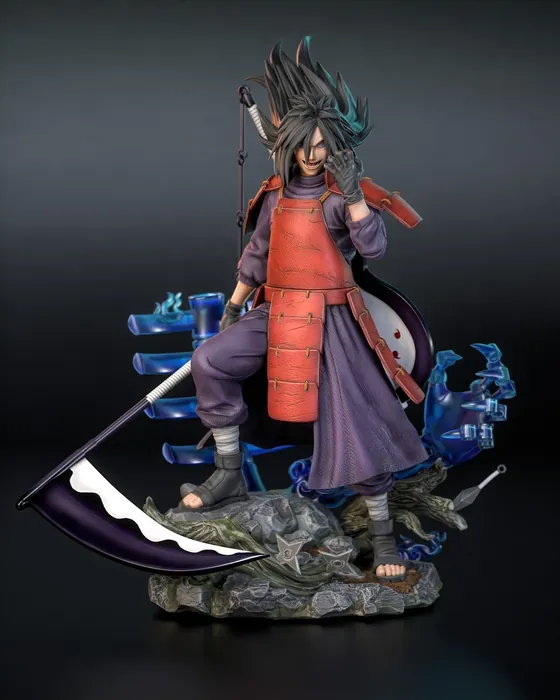
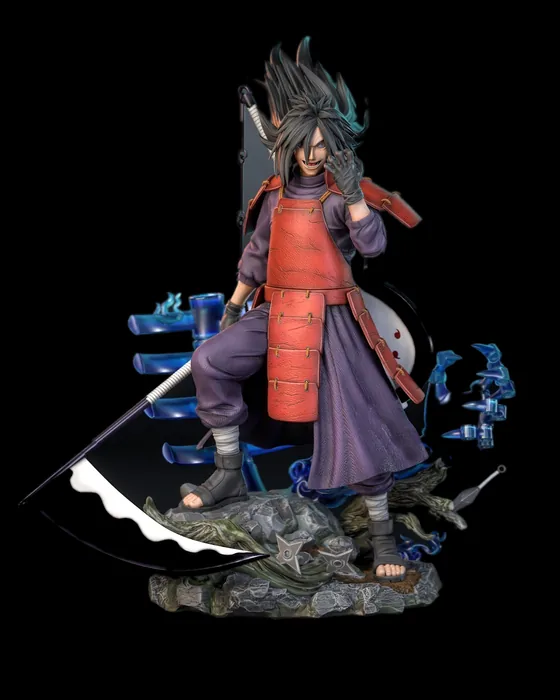
Arquiva 'Colecoes em alta' e poe fundo preto na capa do Madara
1) Secao Collections tirada da home. O componente nao foi apagado: foi
   para src/_arquivo/, excluido do build via tsconfig.app.json (senao o
   TypeScript reclama dos imports que nao existem mais nesse contexto).
   src/data/site.ts::collections continua la, sem uso -- fica pronto se
   a secao voltar.

3) madara-01 (a foto de capa: hero, catalogo e capa da pagina de
   produto) tinha um estudio cinza com vinheta atras da peca. Troquei
   por preto solido.

   O metodo foi region growing 8-conectado a partir da moldura da foto,
   com tolerancia baixa (10) entre pixels vizinhos. Tolerancia alta
   (20, primeira tentativa) deixava a cadeia "subir" em degraus pelo
   gradiente do estudio ate a lamina branca da foice e a perna escura,
   apagando pedaco da peca -- errado. Ajuste de curva de vinheta via
   regressao polinomial tambem foi tentado e descartado: modelo de
   grau 2 deixava sobrar cinza atras da cabeca, grau 3 oscilava
   (Runge) e manchava os cantos superiores. Tolerancia baixa preserva
   a peca porque a borda lamina-fundo e um salto grande demais pra
   cadeia atravessar; conferi de perto cabelo, lamina, pe e base antes
   de aceitar.

   So mexi na foto que foi anexada. As outras 8 do Madara e as das
   demais pecas continuam com o fundo original.

diff --git a/src/pages/Home.tsx b/src/pages/Home.tsx
@@ -5,7 +5,6 @@ import Atelier from '../components/Atelier'
 import BeforeAfter from '../components/BeforeAfter'
 import CaixaReveal from '../components/CaixaReveal'
 import Catalog from '../components/Catalog'
-import Collections from '../components/Collections'
 import Differentials from '../components/Differentials'
 import Faq from '../components/Faq'
 import Hero from '../components/Hero'
@@ -30,7 +29,6 @@ export default function Home() {
   return (
     <main>
       <Hero />
-      <Collections />
       <Differentials />
       <Catalog />
       <CaixaReveal />

diff --git a/src/_arquivo/README.md b/src/_arquivo/README.md
@@ -1,0 +1,12 @@
+# Componentes arquivados
+
+Código que saiu da página ao vivo, mas fica guardado aqui em vez de apagado —
+caso a decisão seja revista.
+
+- **Collections.tsx** — seção "Coleções em alta" (Anime & Mangá, Games & RPG,
+  Sob Medida). Removida da home a pedido do Kevin em 31/08/2026. Usava
+  `collections` de `src/data/site.ts`, que continua lá sem uso.
+
+Nada nesta pasta é importado por nada — o TypeScript não reclama porque
+`src/_arquivo` fica fora do grafo de módulos usado pelo build; confirme com
+`npm run build` se restaurar algo daqui.
